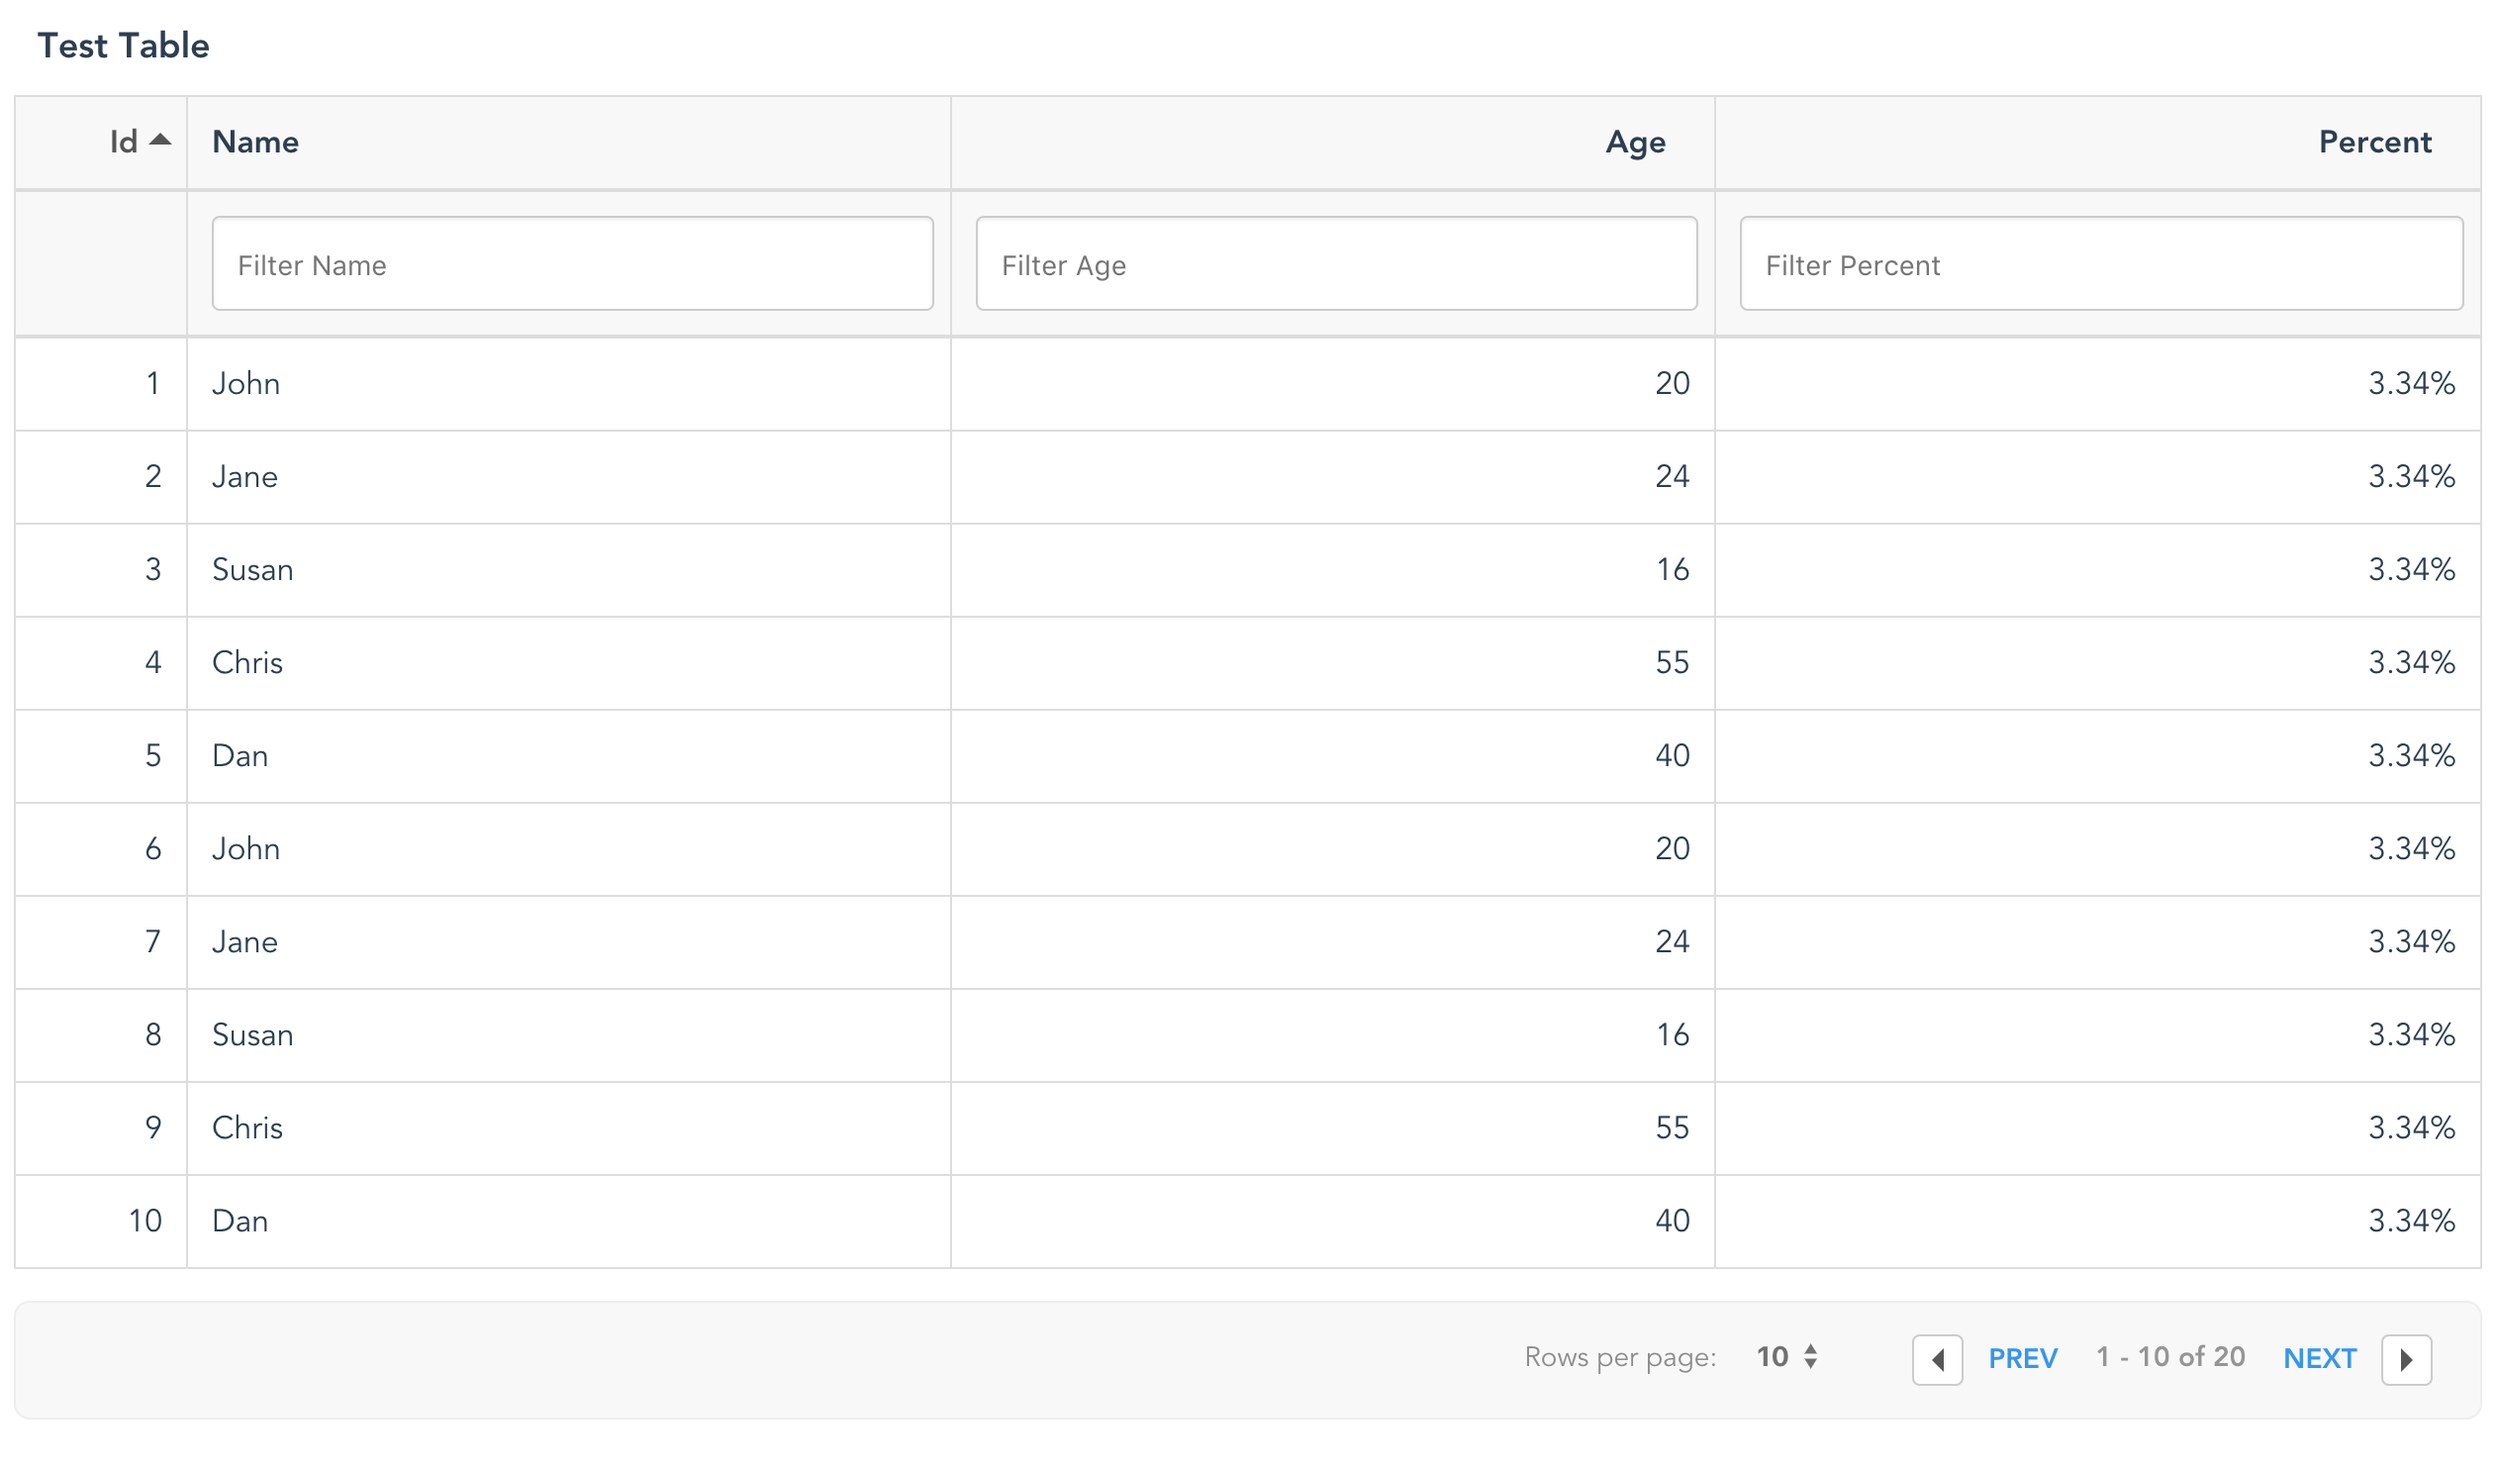
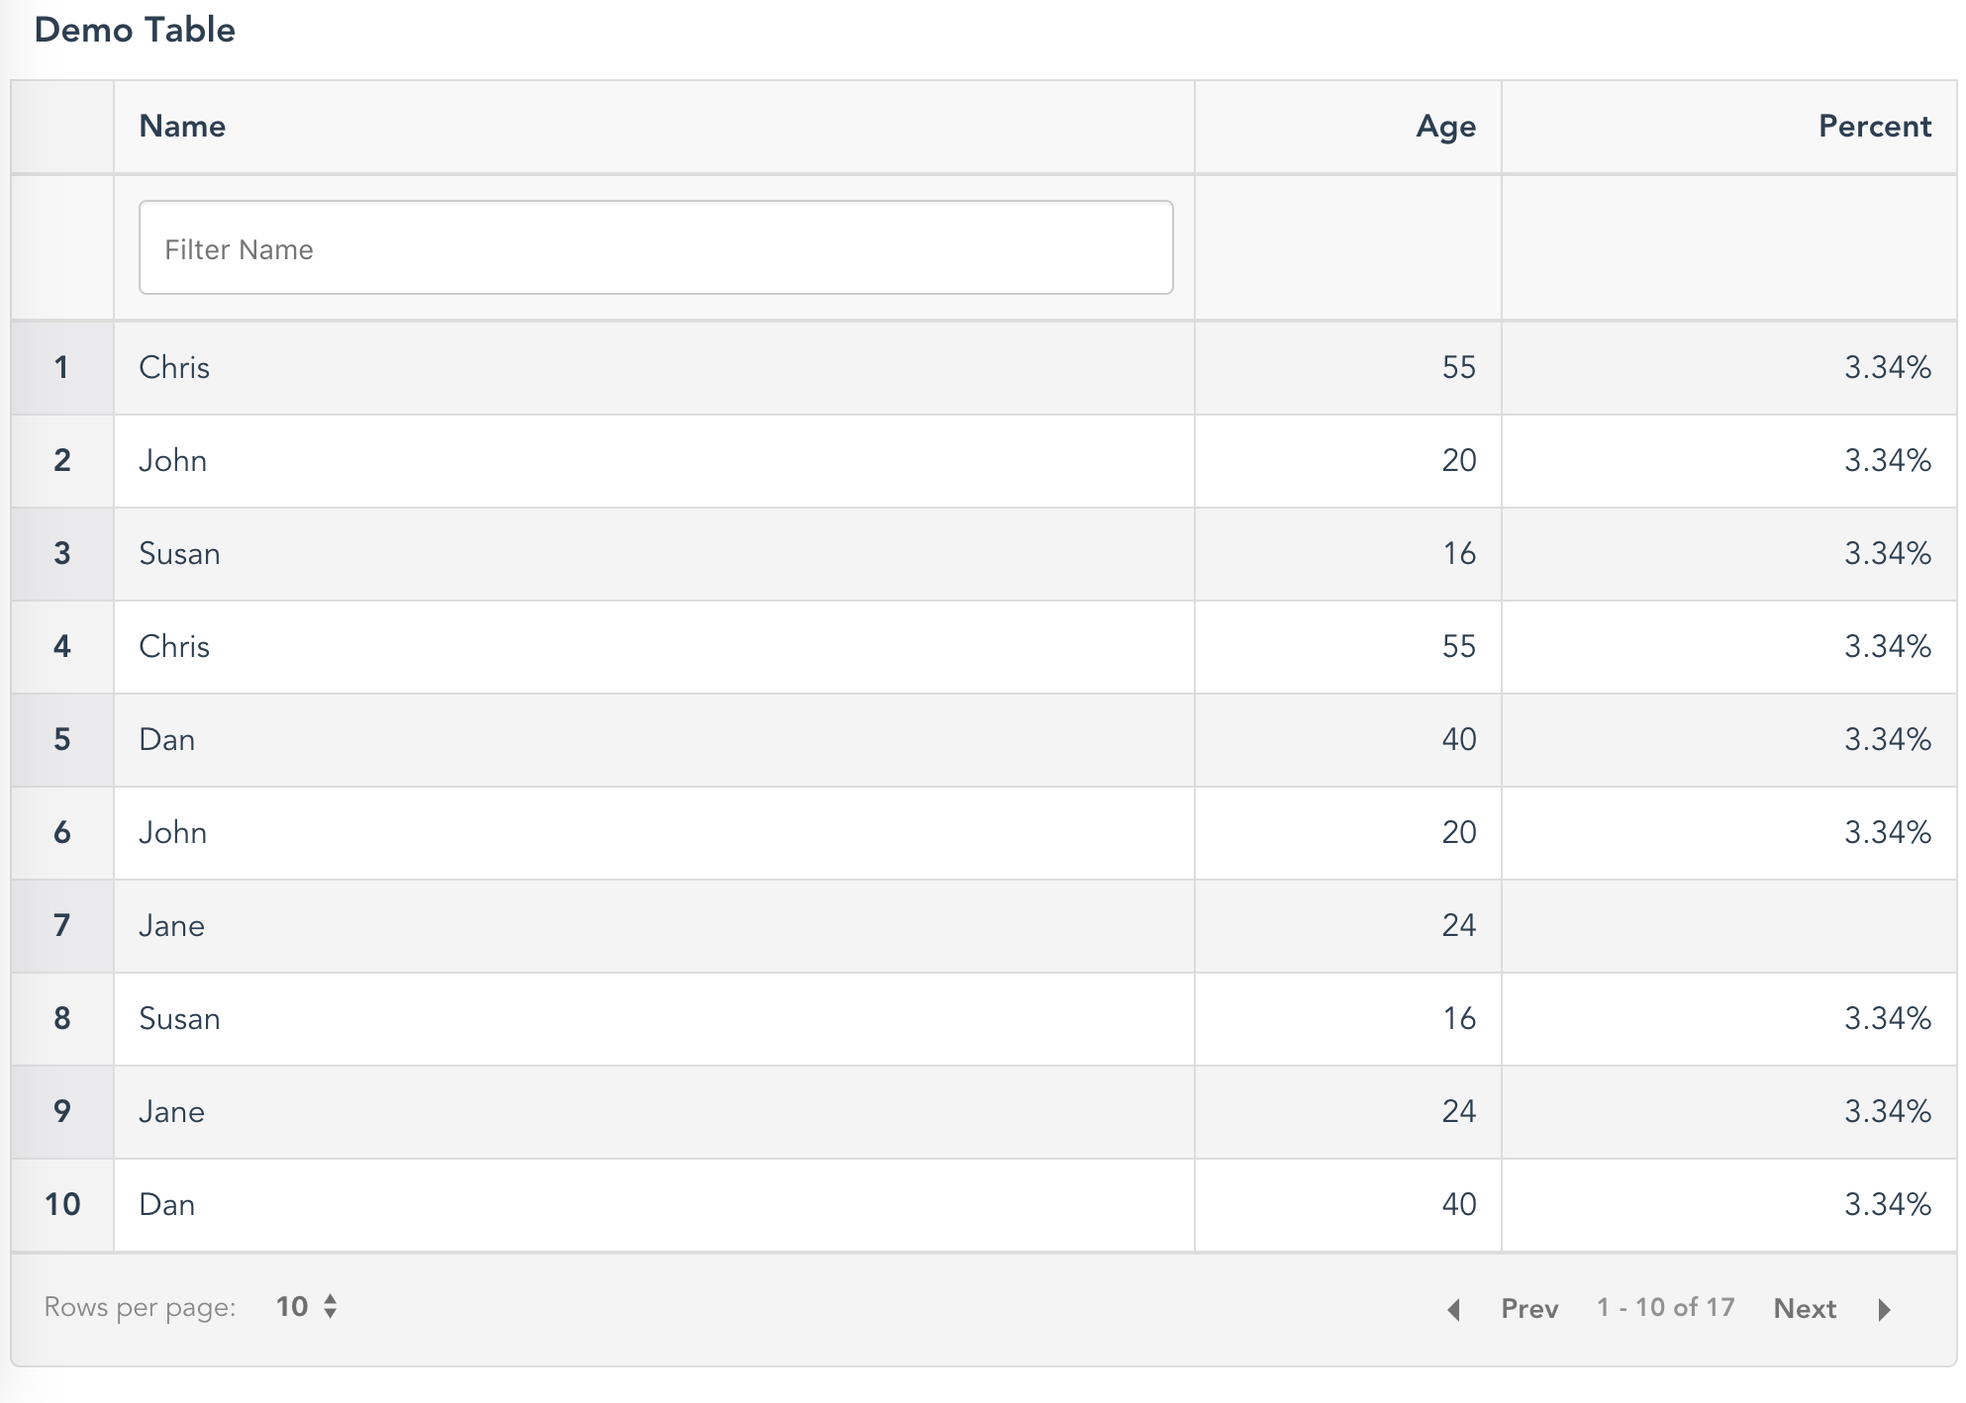
updating readme

diff --git a/README.md b/README.md
@@ -29,14 +29,13 @@ Vue.use(VueGoodTable);
 
 ```html
 <template>
-  <div class="myclass">
+  <div>
     <vue-good-table
-      title="Test Table"
+      title="Demo Table"
       :columns="columns"
       :rows="rows"
-      :paginate="true">
-      
-    </vue-good-table>
+      :paginate="true"
+      :lineNumbers="true"/>
   </div>
 </template>
 
